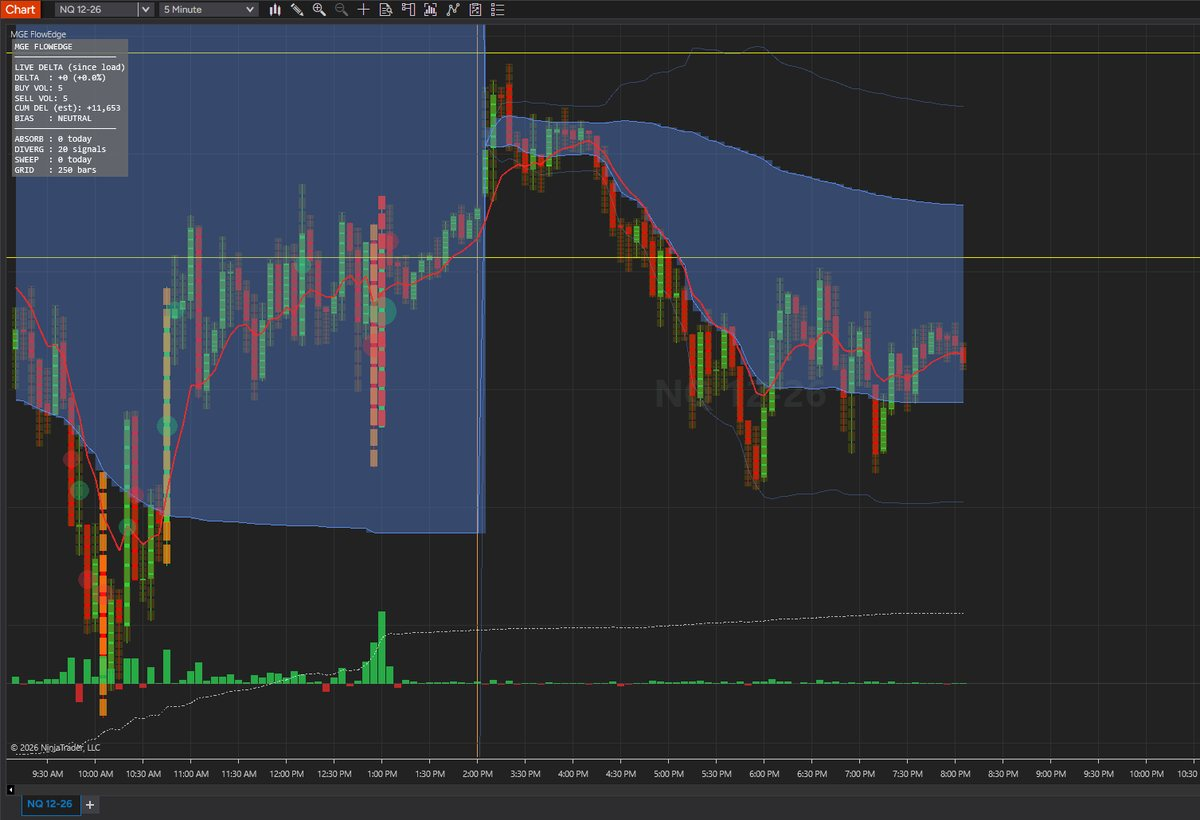
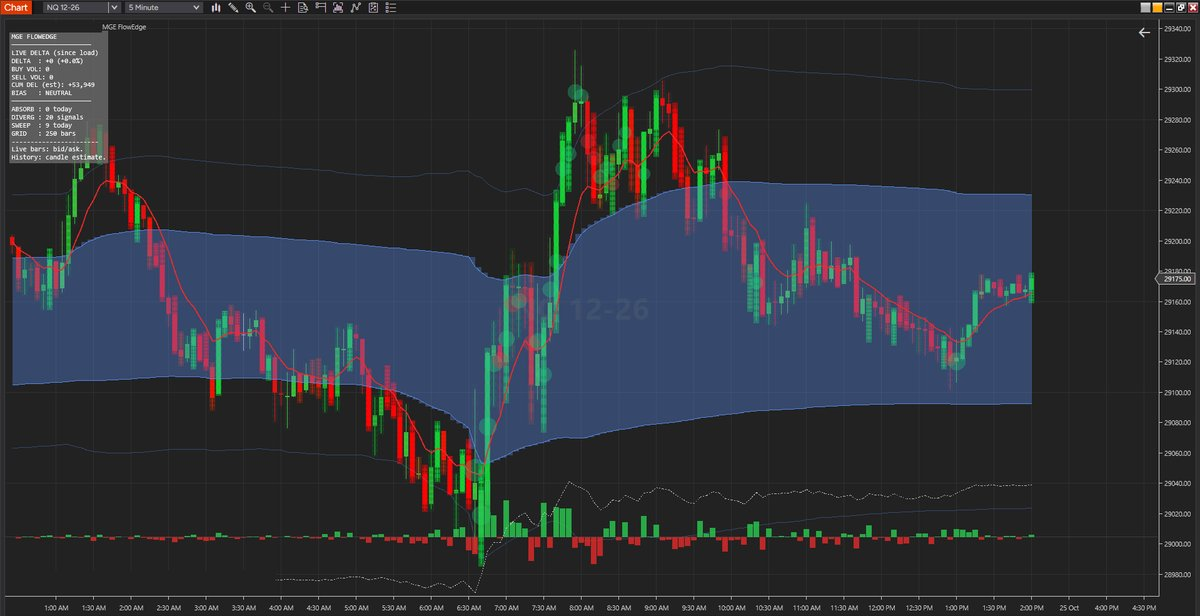
Homepage gallery: current Liquidity Heatmap, FlowEdge and Bar Structure screenshots (old ones showed a development indicator name)

diff --git a/index.html b/index.html
@@ -592,15 +592,15 @@
       </div>
       <div class="gallery reveal" id="gallery">
         <figure class="panel hov">
-          <a class="shot" href="assets/img/home/flowedge.jpg" target="_blank" rel="noopener"><img src="assets/img/home/flowedge.jpg" alt="FlowEdge on a 5-minute NQ chart" loading="lazy" style="object-position: 40% 30%"></a>
+          <a class="shot" href="assets/img/home/flowedge.jpg?v=2" target="_blank" rel="noopener"><img src="assets/img/home/flowedge.jpg?v=2" alt="FlowEdge on a 5-minute NQ chart" loading="lazy" style="object-position: 50% 40%"></a>
           <figcaption><span class="fired">&#9679; On an NQ chart</span><b>FlowEdge</b>Delta heatmap, session VWAP bands, pressure bubbles and a cumulative delta strip, drawn bar by bar on the candles. Live bars use bid/ask; history and playback are estimated from the candle.</figcaption>
         </figure>
         <figure class="panel hov">
-          <a class="shot" href="assets/img/home/liquidity-heatmap.jpg" target="_blank" rel="noopener"><img src="assets/img/home/liquidity-heatmap.jpg" alt="Liquidity Heatmap marking sweeps on a 5-minute NQ chart" loading="lazy" style="object-position: 30% 40%"></a>
+          <a class="shot" href="assets/img/home/liquidity-heatmap.jpg?v=2" target="_blank" rel="noopener"><img src="assets/img/home/liquidity-heatmap.jpg?v=2" alt="Liquidity Heatmap marking sweeps on a 5-minute NQ chart" loading="lazy" style="object-position: 50% 40%"></a>
           <figcaption><span class="fired">&#9679; Sweeps marked</span><b>Liquidity Heatmap</b>Sweeps of highs and lows flagged as they happen, with the session's point of control and volume profile.</figcaption>
         </figure>
         <figure class="panel hov">
-          <a class="shot" href="assets/img/home/bar-structure.jpg" target="_blank" rel="noopener"><img src="assets/img/home/bar-structure.jpg" alt="Bar Structure indicator on a 5-minute MNQ chart: every bar numbered 1, 2U, 2D or 3, the previous session's high as a line, and a panel of higher time-frame bar types" loading="lazy" style="object-position: 78% 40%"></a>
+          <a class="shot" href="assets/img/home/bar-structure.jpg?v=2" target="_blank" rel="noopener"><img src="assets/img/home/bar-structure.jpg?v=2" alt="Bar Structure indicator on a 5-minute MNQ chart: every bar numbered 1, 2U, 2D or 3, the previous session's high as a line, and a panel of higher time-frame bar types" loading="lazy" style="object-position: 50% 40%"></a>
           <figcaption><span class="fired" style="color:#7cc4ff">&#9679; Visual only</span><b>Bar Structure</b>Every bar numbered against the one before it (1, 2U, 2D, 3), the previous session's high as one straight line, and a panel showing the same numbering on the higher time frames. A reading aid, not a signal: our backtests of the bar sequences it names found no standalone edge as entry rules.</figcaption>
         </figure>
         <figure class="panel hov">
